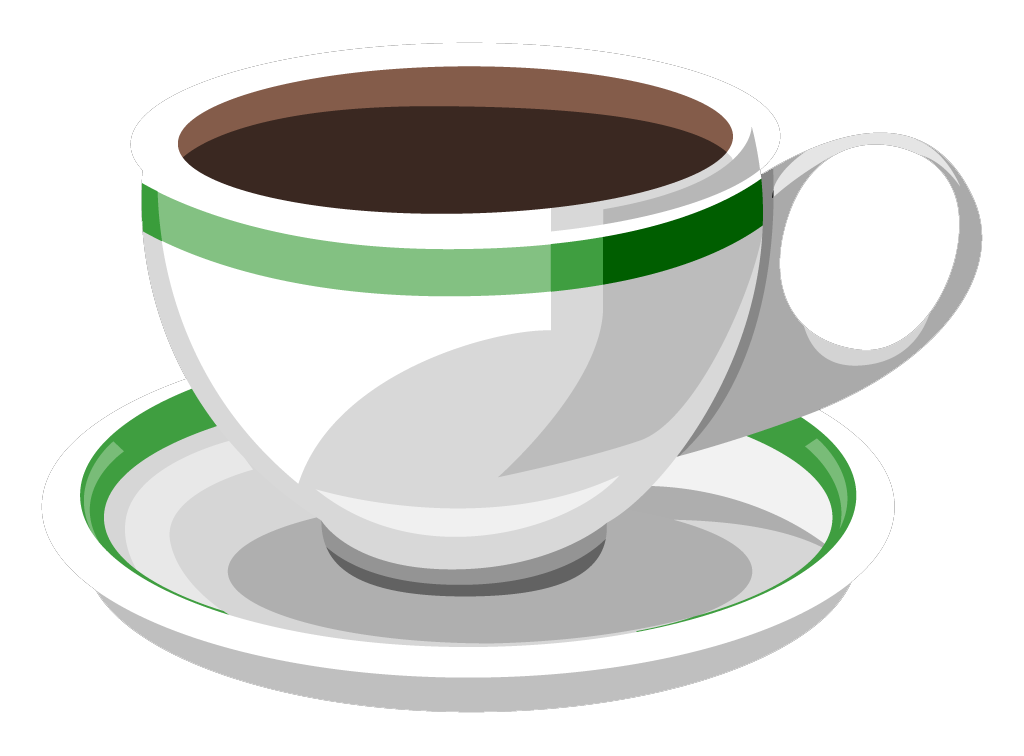
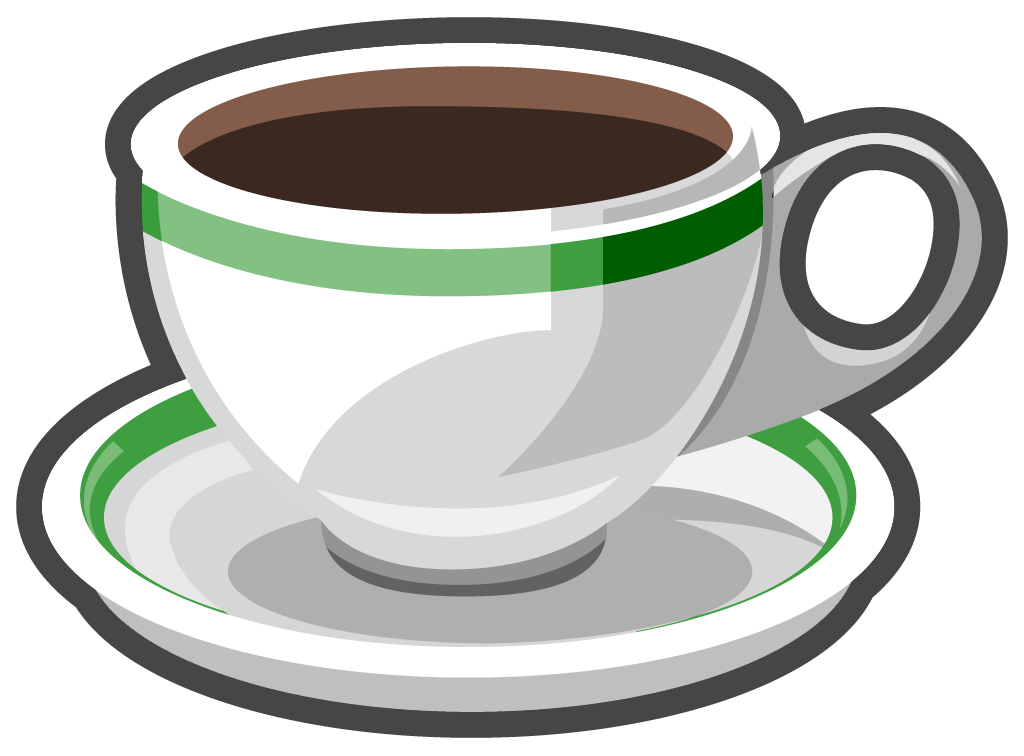
implement teacup graphic style option

Changed region(s): [[0.0, 0.0, 1.0, 0.9735]]

diff --git a/lib/common/list_tiles.dart b/lib/common/list_tiles.dart
@@ -58,6 +58,7 @@ Widget settingList(
   BuildContext context, {
   required String title,
   required String selectedItem,
+  Image? selectedItemImage,
   required List<dynamic> itemList,
   required Widget Function(BuildContext, int) itemBuilder,
 }) {
@@ -75,12 +76,11 @@ Widget settingList(
       ),
       trailing: ConstrainedBox(
         constraints: BoxConstraints(maxWidth: maxWidth),
-        child: Text(
-          selectedItem,
-          textAlign: TextAlign.end,
-          style: textStyleTitle.copyWith(
-            color: Theme.of(context).textTheme.bodySmall!.color!,
-          ),
+        child: settingListTitle(
+          title: selectedItem,
+          color: Theme.of(context).textTheme.bodySmall!.color!,
+          image: selectedItemImage,
+          alignEnd: true,
         ),
       ),
       onTap: () => openPlatformAdaptiveSelectList(
@@ -101,6 +101,7 @@ Widget settingList(
 Widget settingListItem(
   BuildContext context, {
   required String title,
+  Image? titleImage,
   required dynamic value,
   required dynamic groupValue,
   required Function() onChanged,
@@ -115,17 +116,51 @@ Widget settingListItem(
             ? Theme.of(context).colorScheme.primary
             : Theme.of(context).listTileTheme.iconColor,
       ),
-      title: Text(
-        title,
-        style: textStyleTitle.copyWith(
-          color: Theme.of(context).textTheme.bodyLarge!.color!,
-        ),
+      title: settingListTitle(
+        title: title,
+        color: Theme.of(context).textTheme.bodyLarge!.color!,
+        image: titleImage,
       ),
       value: value,
       groupValue: groupValue,
       onChanged: null, // Handled by select list action tap
     ),
     onTap: onChanged,
+  );
+}
+
+// Setting list title with optional image
+Widget settingListTitle({
+  required String title,
+  required Color color,
+  Image? image,
+  bool alignEnd = false,
+}) {
+  // Build title row
+  List<Widget> titleWidgets = [
+    Flexible(
+      child: Text(
+        title,
+        textAlign: alignEnd ? TextAlign.end : TextAlign.start,
+        style: textStyleTitle.copyWith(color: color),
+      ),
+    ),
+  ];
+  if (image != null) {
+    titleWidgets.add(spacerWidget);
+    titleWidgets.add(
+      SizedBox(
+        width: 28.0,
+        height: 28.0,
+        child: image,
+      ),
+    );
+  }
+
+  return Row(
+    mainAxisAlignment:
+        alignEnd ? MainAxisAlignment.end : MainAxisAlignment.start,
+    children: titleWidgets,
   );
 }
 

diff --git a/lib/data/export.dart b/lib/data/export.dart
@@ -47,6 +47,7 @@ abstract class Export {
           silentDefault: provider.silentDefault,
           useCelsius: provider.useCelsius,
           useBrewRatios: provider.useBrewRatios,
+          cupStyleValue: provider.cupStyle.value,
           appThemeValue: provider.appTheme.value,
           appLanguage: provider.appLanguage,
           collectStats: provider.collectStats,
@@ -118,6 +119,13 @@ abstract class Export {
 
           if (exportData.settings!.useBrewRatios != null) {
             provider.useBrewRatios = exportData.settings!.useBrewRatios!;
+          }
+
+          // Look up cupStyle from value
+          if (exportData.settings!.cupStyleValue != null &&
+              exportData.settings!.cupStyleValue! < CupStyle.values.length) {
+            provider.cupStyle =
+                CupStyle.values[exportData.settings!.cupStyleValue!];
           }
 
           // Look up appTheme from value
@@ -211,6 +219,7 @@ class Settings {
   bool? silentDefault;
   bool? useCelsius;
   bool? useBrewRatios;
+  int? cupStyleValue;
   int? appThemeValue;
   String? appLanguage;
   bool? collectStats;
@@ -224,6 +233,7 @@ class Settings {
     this.silentDefault,
     this.useCelsius,
     this.useBrewRatios,
+    this.cupStyleValue,
     this.appThemeValue,
     this.appLanguage,
     this.collectStats,
@@ -239,6 +249,7 @@ class Settings {
       silentDefault: tryCast<bool>(json[jsonKeySilentDefault]),
       useCelsius: tryCast<bool>(json[jsonKeyUseCelsius]),
       useBrewRatios: tryCast<bool>(json[jsonKeyUseBrewRatios]),
+      cupStyleValue: tryCast<int>(json[jsonKeyCupStyle]),
       appThemeValue: tryCast<int>(json[jsonKeyAppTheme]),
       appLanguage: tryCast<String>(json[jsonKeyAppLanguage]),
       collectStats: tryCast<bool>(json[jsonKeyCollectStats]),
@@ -253,6 +264,7 @@ class Settings {
         jsonKeySilentDefault: silentDefault,
         jsonKeyUseCelsius: useCelsius,
         jsonKeyUseBrewRatios: useBrewRatios,
+        jsonKeyCupStyle: cupStyleValue,
         jsonKeyAppTheme: appThemeValue,
         jsonKeyAppLanguage: appLanguage,
         jsonKeyCollectStats: collectStats,

diff --git a/lib/data/prefs.dart b/lib/data/prefs.dart
@@ -165,6 +165,15 @@ abstract class Prefs {
     return sharedPrefs.getBool(prefUseBrewRatios);
   }
 
+  static CupStyle? loadCupStyle() {
+    int? cupStyleValue = sharedPrefs.getInt(prefCupStyle);
+    if (cupStyleValue != null && cupStyleValue < CupStyle.values.length) {
+      return CupStyle.values[cupStyleValue];
+    } else {
+      return null;
+    }
+  }
+
   static AppTheme? loadAppTheme() {
     int? appThemeValue = sharedPrefs.getInt(prefAppTheme);
     if (appThemeValue != null && appThemeValue < AppTheme.values.length) {
@@ -193,6 +202,7 @@ abstract class Prefs {
     bool? silentDefault,
     bool? useCelsius,
     bool? useBrewRatios,
+    CupStyle? cupStyle,
     AppTheme? appTheme,
     String? appLanguage,
     bool? collectStats,
@@ -212,6 +222,9 @@ abstract class Prefs {
     }
     if (useBrewRatios != null) {
       sharedPrefs.setBool(prefUseBrewRatios, useBrewRatios);
+    }
+    if (cupStyle != null) {
+      sharedPrefs.setInt(prefCupStyle, cupStyle.value);
     }
     if (appTheme != null) {
       sharedPrefs.setInt(prefAppTheme, appTheme.value);
@@ -244,6 +257,42 @@ abstract class Prefs {
   static void incrementReviewPromptCounter() {
     int count = reviewPromptCounter;
     sharedPrefs.setInt(prefReviewPromptCounter, ++count);
+  }
+}
+
+// Cup styles
+enum CupStyle {
+  classic(0),
+  mug(1),
+  floral(2);
+
+  final int value;
+
+  const CupStyle(this.value);
+
+  // Cup style images
+  get image {
+    return Image.asset(
+      value == 1
+          ? cupImageMug
+          : value == 2
+              ? cupImageFloral
+              : cupImageClassic,
+      fit: BoxFit.fitWidth,
+      gaplessPlayback: true,
+    );
+  }
+
+  // Localized style names
+  get localizedName {
+    switch (value) {
+      case 1:
+        return AppString.prefs_cup_style_mug.translate();
+      case 2:
+        return AppString.prefs_cup_style_floral.translate();
+      default:
+        return AppString.prefs_cup_style_classic.translate();
+    }
   }
 }
 

diff --git a/lib/pages/prefs_page.dart b/lib/pages/prefs_page.dart
@@ -143,6 +143,9 @@ class _PrefsWidgetState extends State<PrefsWidget> {
         SliverToBoxAdapter(
           child: Column(
             children: [
+              // Setting: teacup style selection
+              _cupStyleSetting(context),
+              listDivider,
               // Setting: collect timer usage stats
               _collectStatsSetting(context),
               listDivider,
@@ -323,6 +326,40 @@ class _PrefsWidgetState extends State<PrefsWidget> {
       // Save useCelsius setting to prefs
       onChanged: (bool newValue) {
         provider.useCelsius = newValue;
+      },
+    );
+  }
+
+  // Setting: teacup style selection
+  Widget _cupStyleSetting(BuildContext context) {
+    AppProvider provider = Provider.of<AppProvider>(context);
+
+    return settingList(
+      context,
+      title: AppString.prefs_cup_style.translate(),
+      selectedItem: provider.cupStyle.localizedName,
+      selectedItemImage: provider.cupStyle.image,
+      itemList: CupStyle.values,
+      itemBuilder: _cupStyleItem,
+    );
+  }
+
+  // Teacup style option
+  Widget _cupStyleItem(BuildContext context, int index) {
+    AppProvider provider = Provider.of<AppProvider>(context, listen: false);
+    CupStyle value = CupStyle.values.elementAt(index);
+
+    return settingListItem(
+      context,
+      // Cup style name
+      title: value.localizedName,
+      titleImage: value.image,
+      value: value,
+      groupValue: provider.cupStyle,
+      // Save cupStyle to prefs
+      onChanged: () {
+        provider.cupStyle = value;
+        Navigator.of(context).pop(true);
       },
     );
   }

diff --git a/lib/widgets/teacup.dart b/lib/widgets/teacup.dart
@@ -13,6 +13,7 @@
 // Cuppa teacup graphic
 
 import 'package:cuppa_mobile/common/constants.dart';
+import 'package:cuppa_mobile/data/prefs.dart';
 import 'package:cuppa_mobile/data/provider.dart';
 import 'package:cuppa_mobile/data/tea_timer.dart';
 
@@ -22,28 +23,12 @@ import 'package:provider/provider.dart';
 
 // Teacup with simple animations while a timer is active
 Widget teacup() {
-  return Selector<AppProvider, bool>(
-    selector: (_, provider) => provider.appTheme.blackTheme,
-    builder: (context, blackTheme, child) => Stack(
+  return Selector<AppProvider, CupStyle>(
+    selector: (_, provider) => provider.cupStyle,
+    builder: (context, cupStyle, child) => Stack(
       children: [
-        // Border color adjusted for theme darkness
-        ColorFiltered(
-          colorFilter: ColorFilter.mode(
-            blackTheme ? const Color(0xff323232) : Colors.black,
-            BlendMode.srcIn,
-          ),
-          child: Image.asset(
-            cupImageBorder,
-            fit: BoxFit.fitWidth,
-            gaplessPlayback: true,
-          ),
-        ),
         // Teacup image
-        Image.asset(
-          cupImageDefault,
-          fit: BoxFit.fitWidth,
-          gaplessPlayback: true,
-        ),
+        cupStyle.image,
         // Animate while timing
         Consumer<AppProvider>(
           builder: (context, provider, child) => Visibility(

diff --git a/lib/common/constants.dart b/lib/common/constants.dart
@@ -31,8 +31,9 @@ const supportURL =
     'https://github.com/ncosgray/cuppa_mobile?tab=readme-ov-file#support-the-project';
 
 // Cup images
-const cupImageDefault = 'images/Cuppa_hires_default.png';
-const cupImageBorder = 'images/Cuppa_hires_border.png';
+const cupImageClassic = 'images/Cuppa_hires_default.png';
+const cupImageMug = 'images/Cuppa_hires_mug.png';
+const cupImageFloral = 'images/Cuppa_hires_floral.png';
 const cupImageBag = 'images/Cuppa_hires_bag.png';
 const cupImageTea = 'images/Cuppa_hires_tea.png';
 
@@ -161,6 +162,7 @@ const prefStackedView = 'Cuppa_stacked_view';
 const prefCollectStats = 'Cuppa_collect_stats';
 const prefUseCelsius = 'Cuppa_use_celsius';
 const prefUseBrewRatios = 'Cuppa_use_brew_ratios';
+const prefCupStyle = 'Cuppa_cup_style';
 const prefAppTheme = 'Cuppa_app_theme';
 const prefAppLanguage = 'Cuppa_app_language';
 const prefSkipTutorial = 'Cuppa_skip_tutorial';
@@ -175,6 +177,7 @@ const jsonKeySilentDefault = 'silentDefault';
 const jsonKeyStackedView = 'stackedView';
 const jsonKeyUseCelsius = 'useCelsius';
 const jsonKeyUseBrewRatios = 'useBrewRatios';
+const jsonKeyCupStyle = 'cupStyle';
 const jsonKeyAppTheme = 'appTheme';
 const jsonKeyAppLanguage = 'appLanguage';
 const jsonKeyCollectStats = 'collectStats';

diff --git a/lib/data/provider.dart b/lib/data/provider.dart
@@ -356,6 +356,15 @@ class AppProvider extends ChangeNotifier {
     notifyListeners();
   }
 
+  // Setting: teacup style
+  CupStyle _cupStyle = CupStyle.classic;
+  CupStyle get cupStyle => _cupStyle;
+  set cupStyle(CupStyle newValue) {
+    _cupStyle = newValue;
+    Prefs.saveSettings(cupStyle: _cupStyle);
+    notifyListeners();
+  }
+
   // Setting: app color theme
   AppTheme _appTheme = AppTheme.system;
   AppTheme get appTheme => _appTheme;
@@ -404,6 +413,7 @@ class AppProvider extends ChangeNotifier {
     _hideIncrements = Prefs.loadHideIncrements() ?? _hideIncrements;
     _silentDefault = Prefs.loadSilentDefault() ?? _silentDefault;
     _useBrewRatios = Prefs.loadUseBrewRatios() ?? _useBrewRatios;
+    _cupStyle = Prefs.loadCupStyle() ?? _cupStyle;
     _appTheme = Prefs.loadAppTheme() ?? _appTheme;
     _appLanguage = Prefs.loadAppLanguage() ?? _appLanguage;
     _collectStats = Prefs.loadCollectStats() ?? _collectStats;

diff --git a/lib/data/localization.dart b/lib/data/localization.dart
@@ -104,6 +104,10 @@ enum AppString {
   notification_title('notification_title'),
   ok_button('ok_button'),
   prefs_app_theme('prefs_app_theme'),
+  prefs_cup_style('prefs_cup_style'),
+  prefs_cup_style_classic('prefs_cup_style_classic'),
+  prefs_cup_style_floral('prefs_cup_style_floral'),
+  prefs_cup_style_mug('prefs_cup_style_mug'),
   prefs_stacked_view('prefs_stacked_view'),
   prefs_header('prefs_header'),
   prefs_hide_increments('prefs_hide_increments'),
